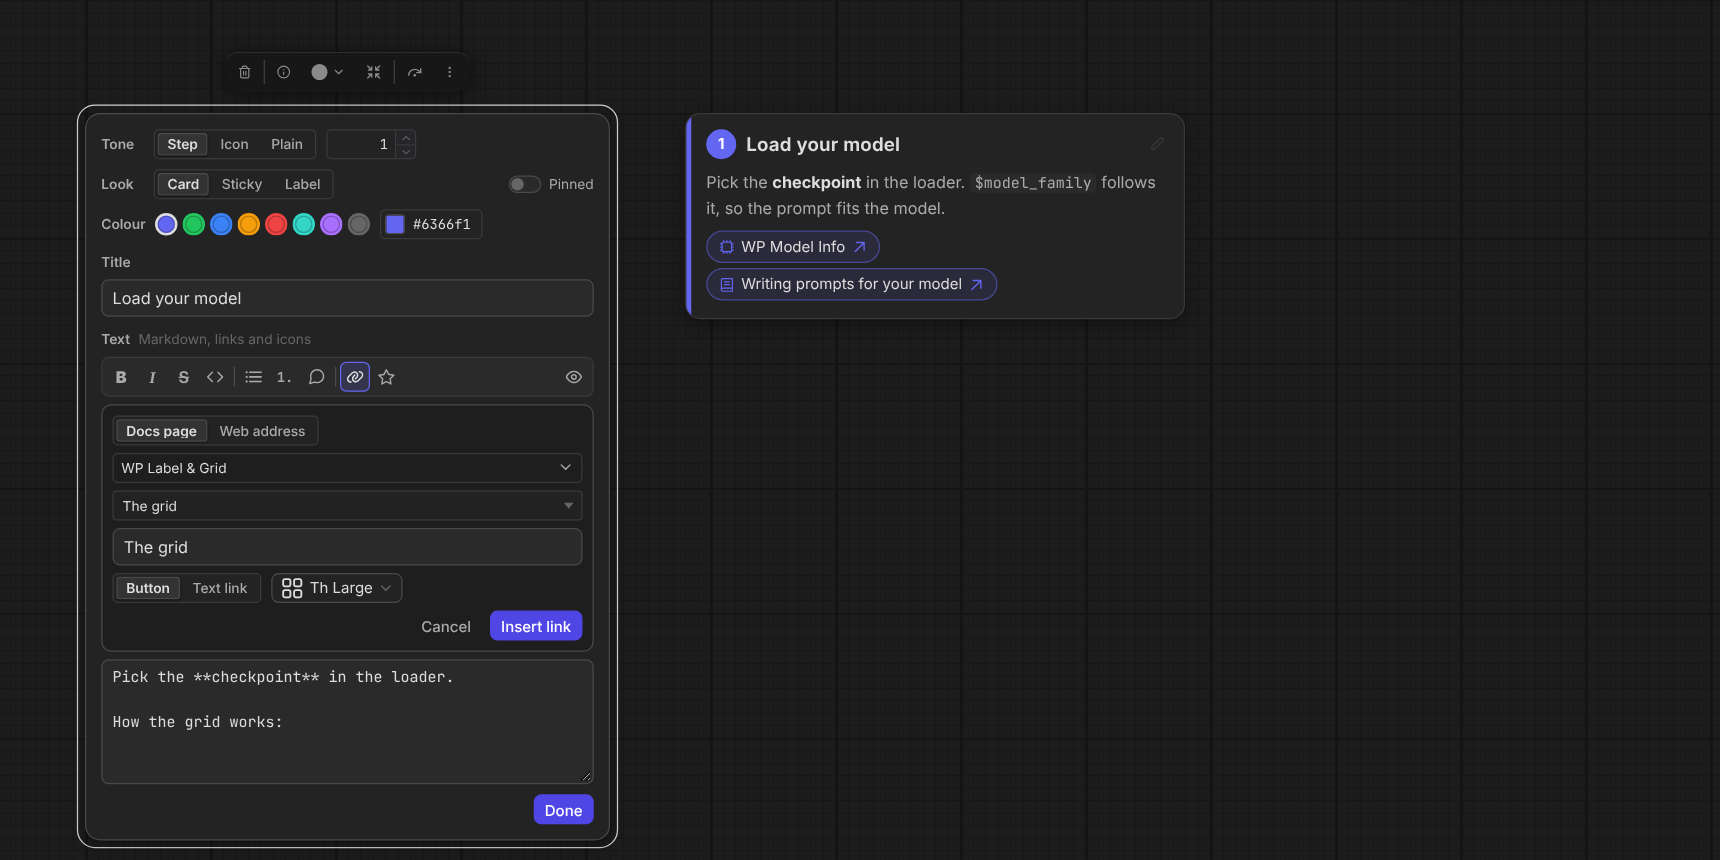
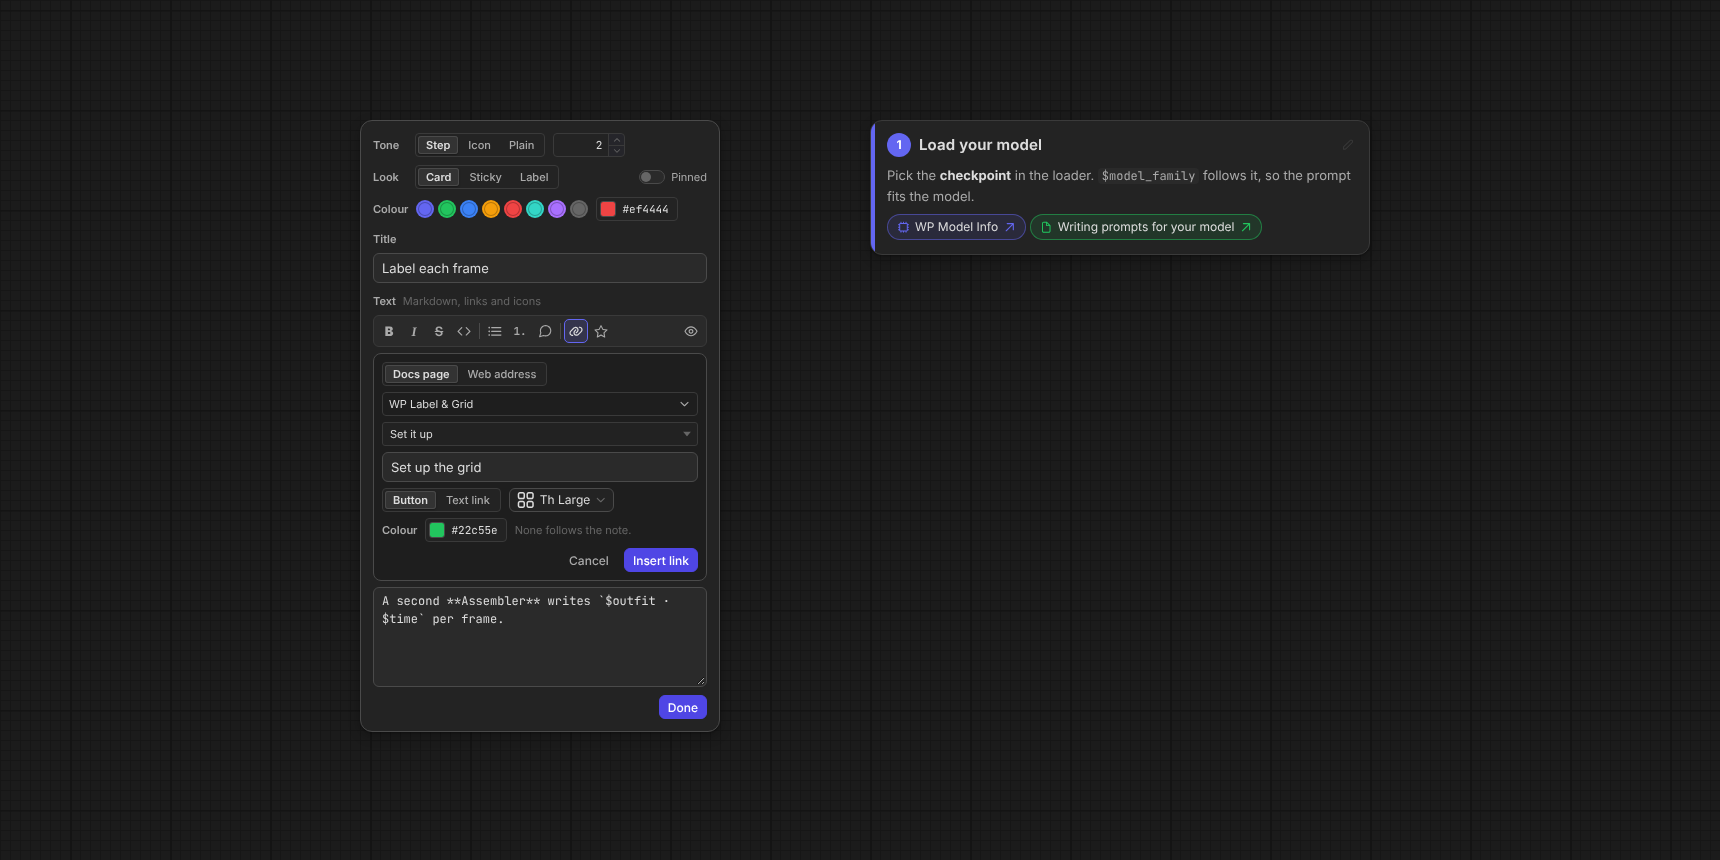
docs(note): document link colours and retake the note editor screenshot

diff --git a/src/manager/docs/figures.ts b/src/manager/docs/figures.ts
@@ -84,7 +84,7 @@ export const FIGURE_TEXT: Record<string, string> = {
   "wp-seed-list-flow":
     "Flow diagram of three nodes left to right: WP Context Loop (N prompts), an arrow labelled loop_config, WP Seed List (N seeds), an arrow labelled paired in order, and KSampler (N different images). Caption: wire the loop's loop_config into the Seed List and its seed output into the sampler's seed.",
   "images/docs/wp-note-editor.png":
-    "A WP Note open in its editor next to a finished Step card. The editor has Tone (Step, Icon, Plain) with the step number, Look (Card, Sticky, Label) with the Pinned switch, a row of colour presets with a custom colour field, the Title, and the Text with its formatting bar: bold, italic, strikethrough, code, bulleted and numbered list, quote, link (pressed), icon and a preview eye. The link panel under the bar has Docs page chosen, WP Label & Grid found by typing, its section The grid, the link text, and Button with the Th Large icon, ready to Insert link.",
+    "A WP Note open in its editor next to a finished Step card. The editor has Tone (Step, Icon, Plain) with the step number 2, Look (Card, Sticky, Label) with the Pinned switch, a row of colour presets with the custom colour #ef4444, the Title Label each frame, and the Text with its formatting bar: bold, italic, strikethrough, code, bulleted and numbered list, quote, link (pressed), icon and a preview eye. The link panel is open: Docs page is picked, the page is WP Label & Grid and the section Set it up, the text is Set up the grid, the style is Button with the Th Large icon, and Colour is #22c55e (None follows the note), with Cancel and Insert link. Under it is the note's Markdown and a Done button. The card on the right, step 1 Load your model, reads Pick the checkpoint in the loader. $model_family follows it, so the prompt fits the model, with two link buttons: WP Model Info in the note's colour and Writing prompts for your model in green.",
   "images/docs/wp-note.png":
     "Four WP Notes on the canvas with no node frame around them. A Step 1 card, Load your model, with a $model_family code span and two docs buttons (WP Model Info, Writing prompts for your model); an amber Warning card with a triangle icon and a lock icon in its text; a green Tip sticky with a lightbulb, tinted with its colour; and a small purple Label pill, Label each frame, whose hover card is open above it with the label's text, a The grid docs button and an Edit button.",
   "images/docs/wp-toggles.png":

diff --git a/src/manager/docs/pages/nodes/wp-note.vue b/src/manager/docs/pages/nodes/wp-note.vue
@@ -26,8 +26,8 @@ const bar = [
   { term: "Bold, italic, strikethrough", desc: "Wraps the selection in **, * or ~~.", kbd: "Ctrl+B / Ctrl+I" },
   { term: "Code", desc: "Wraps it in backticks, for a $variable." },
   { term: "Lists and quote", desc: "Puts - , 1. or > before each selected line (press again to take it off)." },
-  { term: "Link", desc: "A Docs page (type to find any page of these docs, then pick a section or the whole page) or a Web address, drawn as a Button with an icon or as a Text link. The selected text becomes the link's text.", kbd: "Ctrl+K" },
-  { term: "Icon", desc: "Any PrimeIcons icon, searchable, in a colour or the text's own." },
+  { term: "Link", desc: "A Docs page (type to find any page of these docs, then pick a section or the whole page) or a Web address, drawn as a Button with an icon or as a Text link, in its own colour or the note's. The selected text becomes the link's text. It goes where the caret is when you press Insert link, so you can click in the text after opening the panel.", kbd: "Ctrl+K" },
+  { term: "Icon", desc: "Any PrimeIcons icon, searchable, in a colour or the text's own, inserted where the caret is." },
   { term: "Preview (eye)", desc: "Shows the note as it will read." },
 ];
 
@@ -36,6 +36,7 @@ const syntax = [
   { term: "[Seeds](docs:seeds-and-loops)", desc: "A link to that page of these docs." },
   { term: "[The grid](docs:wp-label-grid#s-the-grid)", desc: "A link to one section of it." },
   { term: "[Start here](docs:quick-start){button pi-play}", desc: "The link drawn as a button with an icon. {button} alone has no icon." },
+  { term: "{button pi-play #22c55e}  [Read more](https://example.com){#22c55e}", desc: "A button or a text link in its own colour. Without one it takes the note's." },
   { term: ":pi-heart:  :pi-heart:{#rrggbb}", desc: "An icon, optionally in a colour: a hex code like the custom colour field shows." },
 ];
 </script>

diff --git a/docs/release-notes/next.md b/docs/release-notes/next.md
@@ -24,6 +24,7 @@ The assistant is new and **off by default**. Turn it on in **Settings › AI ass
 
 - **WP Toggles.** A new node for many on/off switches. Each toggle writes `$its_variable` as true or false (always internal) for rules to branch on, and can show a BOOLEAN output at the right of its row. A toggle can need another (off while that one is off), labels group and fold them, and each picks its look: switch, checkbox, two buttons with your own words, or a chip. Set a toggle's **When off** to **Mute** or **Bypass** and wire nodes (or canvas groups) into the dot in front of its row: off mutes or bypasses them, on lets them run. An icon by the name shows it at work, and **Invert** makes on the state that mutes. The new **WP Node Group** gathers several nodes for one toggle, and **WP Mode Relay** passes one node's mute or bypass on to a group. **Upstream can set it** lets an upstream yes/no value set a switch for the run. **Pick one** makes them radio buttons; each pick can carry a value (with `$variables`) for the picked variable, which can print in the prompt, and upstream can choose the pick. The node opens in a clean view with just the switches; the pencil opens the editor. Select Boolean nodes and right-click **Merge into WP Toggles** to turn them into one node with their wires kept.
 - **New node: WP Note.** A note for explaining a workflow that looks like a panel, not a node: no title bar and no node frame in either renderer, the selection outline hugs it, it drags and selects like a node, and you double-click it to edit. Pick a tone (**Step** with a number, **Icon** with any icon, or **Plain**), a colour (presets that follow the theme, Tip, Info, Warning, Danger and more, or any colour), and a look (**Card**, **Sticky**, or a small **Label** pill). The text has a formatting bar: bold, italic, lists, quotes, a preview, **icons** from the whole PrimeIcons set in any colour, and **links** to a web page or to any page and section of the built-in docs, as a text link or a button with an icon, as many as you like and anywhere in the text. A Card or Sticky resizes from its corner (the height follows the text); a Label fits its title, and hovering it shows its text and links in a card you can click. Keys typed in the editor never trigger ComfyUI's shortcuts. New notes start pinned, and the editor's **Pinned** switch uses ComfyUI's own pin. It never runs and is left out of the prompt.
+- **WP Note links in colour, at the caret.** A link from the note's formatting bar can have its own colour, as a button or a text link (`{button pi-play #22c55e}`, `{#22c55e}`); without one it keeps the note's colour. Links and icons now go where the caret is when you press Insert: they used to land where it was when the panel opened, so clicking in the text after opening the panel put them at the old spot (often the end).
 - **WP Var → Choice.** A new node sends a $variable into any dropdown input: the checkpoint, sampler, scheduler, VAE or a LoRA name, so a wildcard can pick the model per image or per loop frame. It reads the list of the dropdown it's wired into and matches the text loosely (capitals, folders, extension and spaces don't matter, so "wai nsfw v14" finds `illustrious/waiNSFW_v14.safetensors`), or exactly, or forgiving typos. When nothing matches it uses the fallback you pick from a dropdown of that same list and warns, or stops the run if you'd rather. ComfyUI doesn't check text that comes in on a wire, so a wrong name used to fail inside the loader.
 - **Context Loop takes a list of values.** WP Context Loop has an optional **values** text input: one frame per line (or per list entry), each writing its line to `$iteration_value`, so a list from another node (subjects, styles, file lines) drives the frames. With a sweep on, every value runs every combination.
 - **Model Info takes wires.** WP Model Info has optional **family**, **variant** and **name** text inputs, so another node (a switch or a text node) can set the model variables. A wired value beats the pin and detection, a wired name goes through the variant rules, and the row shows it came from the wire.

diff --git a/docs/help/WP_Note.md b/docs/help/WP_Note.md
@@ -31,8 +31,8 @@ Keys you type in the editor stay in the editor: Delete, Ctrl+Z and the other Com
 | **B** / *I* / ~~S~~ | `**bold**`, `*italic*`, `~~strikethrough~~` (Ctrl+B, Ctrl+I) |
 | `<>` | `` `code` ``, for a `$variable` |
 | Lists, quote | `- item`, `1. item`, `> quote` on each selected line |
-| Link (Ctrl+K) | A link to a **Docs page** (type to find any page, then pick a section or the whole page) or a **Web address**, as a **Button** (with an icon) or a **Text link** |
-| Icon | Any PrimeIcons icon, in a colour or the text's own |
+| Link (Ctrl+K) | A link to a **Docs page** (type to find any page, then pick a section or the whole page) or a **Web address**, as a **Button** (with an icon) or a **Text link**, in its own **Colour** or the note's. It goes where the caret is when you press **Insert link**, so you can click in the text after opening the panel |
+| Icon | Any PrimeIcons icon, in a colour or the text's own, inserted where the caret is |
 | Eye | Preview the note as it will read |
 
 ## Syntax
@@ -43,6 +43,7 @@ Keys you type in the editor stay in the editor: Delete, Ctrl+Z and the other Com
 | `[Seeds](docs:seeds-and-loops)` | A link to that docs page |
 | `[The grid](docs:wp-label-grid#s-the-grid)` | A link to a section of it |
 | `[Start here](docs:quick-start){button pi-play}` | The link drawn as a button with an icon (`{button}` for none) |
+| `{button pi-play #22c55e}` / `[Read more](https://example.com){#22c55e}` | A button or a text link in its own colour (without one it takes the note's) |
 | `:pi-heart:` / `:pi-heart:{#ef4444}` | An icon, optionally coloured |
 
 Any other kind of link shows as plain text.
